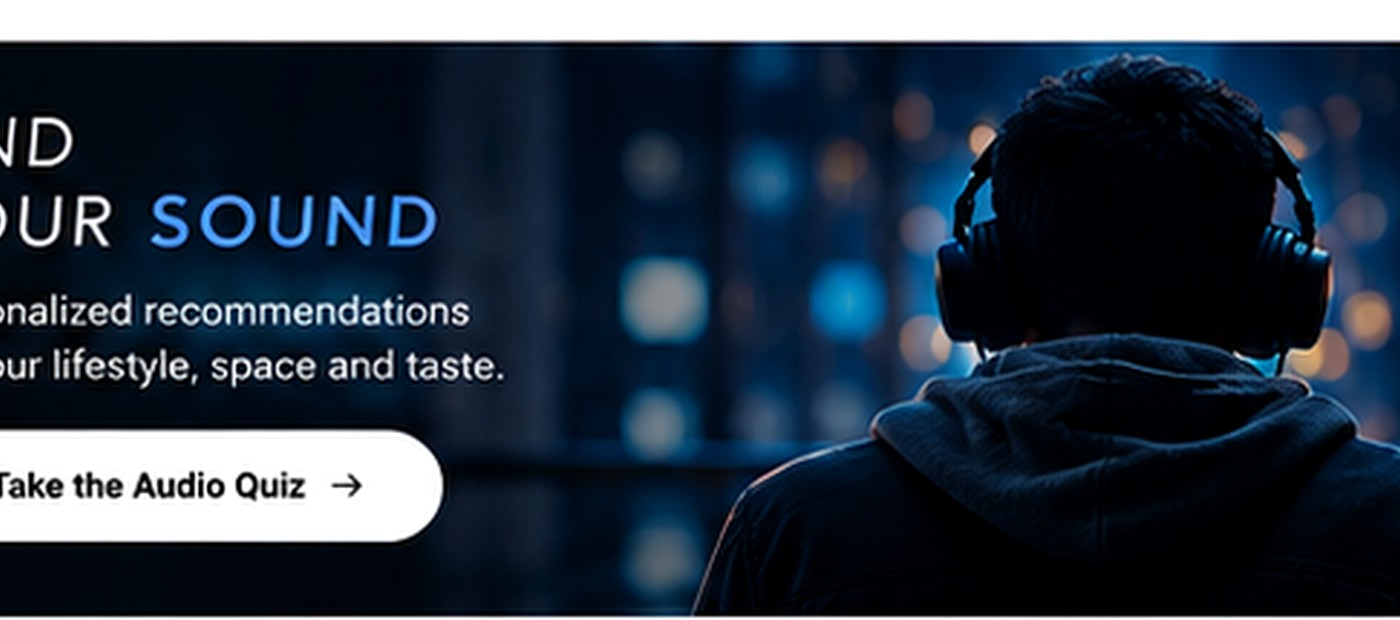
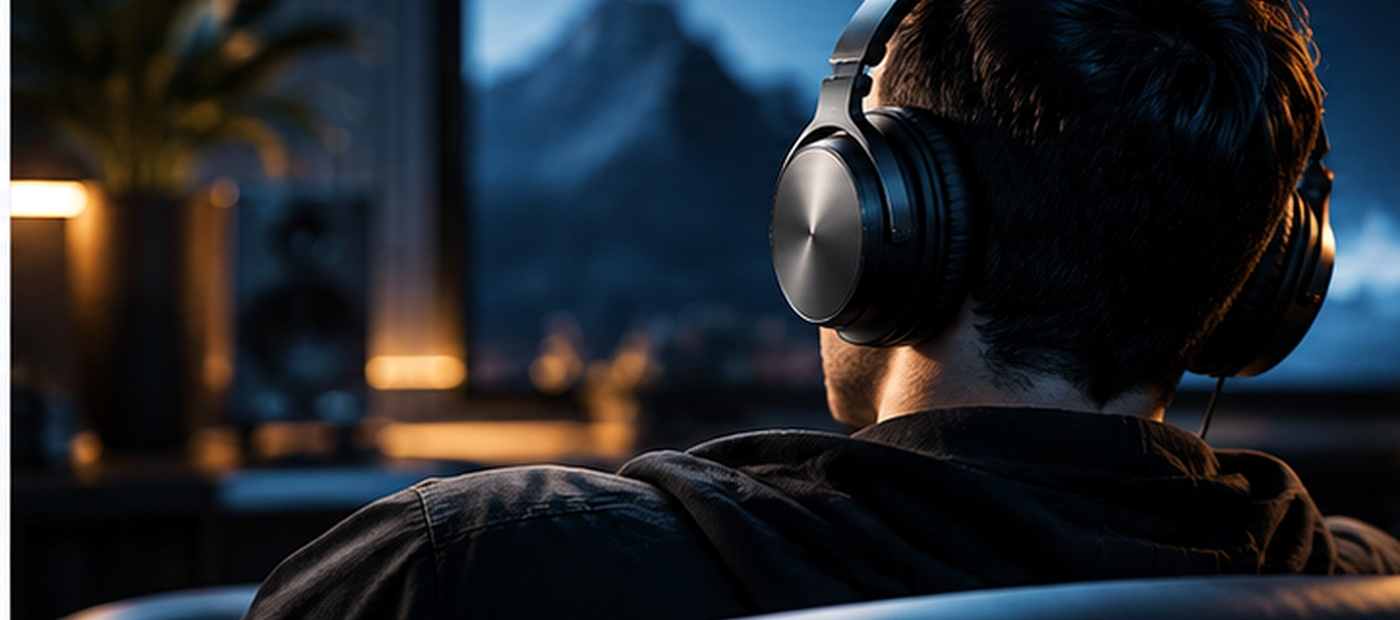
Add files via upload

diff --git a/css/style.css b/css/style.css
@@ -5,7 +5,7 @@
 .nav{background:#080c11;color:white;display:flex;align-items:center;gap:34px;padding:16px 5vw;position:sticky;top:0;z-index:20;border-bottom:1px solid #1b2530}.brand{width:190px}.brand img{width:185px;height:56px;object-fit:contain;display:block}.navlinks{display:flex;gap:22px;align-items:center;flex:1}.navlinks a{color:#d9e1e9;font-size:14px}.navlinks a:hover,.navlinks a.active{color:#58a4ff}.search{display:flex;align-items:center;background:#131b24;border:1px solid #2b3845;border-radius:999px;padding:0 16px;width:285px}.search input{background:none;border:0;outline:0;color:#fff;width:100%;padding:11px 8px}.search input::placeholder{color:#8190a0}.nav-actions{display:flex;gap:12px}.iconbtn{border:1px solid #2b3845;background:#101720;color:#fff;width:42px;height:42px;border-radius:50%;cursor:pointer}.count{font-size:10px;background:var(--blue);padding:2px 5px;border-radius:10px;position:relative;top:-9px;left:17px}
 .hero{min-height:580px;background:#071019 url('../assets/images/banners/hero.jpg') 68% center/cover no-repeat;color:white;display:flex;align-items:center;padding:70px 7vw;position:relative}.hero:after{content:"";position:absolute;inset:0;background:linear-gradient(90deg,rgba(3,7,12,.98) 0%,rgba(3,7,12,.86) 34%,rgba(3,7,12,.34) 67%,rgba(3,7,12,.12) 100%)}.hero-content{position:relative;z-index:1;max-width:610px}.eyebrow{letter-spacing:.24em;text-transform:uppercase;color:#78b5ff;font-size:13px}.hero h1{font-size:clamp(48px,6vw,84px);line-height:.95;margin:16px 0}.hero p{font-size:18px;color:#d9e4ef;max-width:540px}.actions{display:flex;gap:12px;margin:28px 0}.btn{border:1px solid #31506d;background:#fff;color:#071019;padding:13px 20px;border-radius:999px;font-weight:700;cursor:pointer}.btn.primary{background:var(--blue);color:white;border-color:var(--blue)}.btn.ghost{background:transparent;color:white;border-color:#7c8c9d}.benefits{display:flex;gap:25px;margin-top:35px}.benefit{font-size:12px;color:#d6e0ea}.benefit b{display:block;color:white;font-size:14px}
 .container{width:min(1400px,90%);margin:auto}.section{padding:70px 0}.section-head{display:flex;justify-content:space-between;align-items:end;margin-bottom:28px}.section h2{font-size:34px;margin:0}.muted{color:#6c7884}.categories{display:grid;grid-template-columns:repeat(10,1fr);gap:10px;margin-top:0;background:#fff;padding:18px 5vw}.cat{border:1px solid #e1e6eb;border-radius:14px;overflow:hidden;background:#fff;text-align:center;transition:.2s}.cat:hover{transform:translateY(-4px);box-shadow:0 12px 30px rgba(10,30,50,.1)}.cat img{width:100%;aspect-ratio:1.2;object-fit:contain;display:block;background:#fff;padding:8px}.cat span{display:block;padding:12px 6px;font-size:13px;font-weight:700}
-.promo-grid{display:grid;grid-template-columns:repeat(3,1fr);gap:16px}.promo{height:260px;border-radius:18px;overflow:hidden;position:relative;background:#10151c}.promo img{width:100%;height:100%;object-fit:cover}.promo:after{content:"";position:absolute;inset:0;background:linear-gradient(90deg,rgba(0,0,0,.72),rgba(0,0,0,.1))}.promo-copy{position:absolute;z-index:2;left:26px;top:28px;color:#fff;max-width:260px}.promo-copy h3{font-size:28px;line-height:1.05;margin:0 0 10px}.promo-copy p{font-size:14px;color:#e1e8ef}.promo-copy .btn{padding:10px 15px}
+.promo-grid{display:grid;grid-template-columns:repeat(3,1fr);gap:16px}.promo{height:260px;border-radius:18px;overflow:hidden;position:relative;background:#10151c}.promo img{width:100%;height:100%;object-fit:cover}.promo:after{content:"";position:absolute;inset:0;background:linear-gradient(90deg,rgba(0,0,0,.70),rgba(0,0,0,.08))}.promo-copy{position:absolute;z-index:2;left:26px;top:28px;color:#fff;max-width:260px}.promo-copy h3{font-size:28px;line-height:1.05;margin:0 0 10px}.promo-copy p{font-size:14px;color:#e1e8ef}.promo-copy .btn{padding:10px 15px}
 .product-grid{display:grid;grid-template-columns:repeat(4,1fr);gap:18px}.product{background:#fff;border:1px solid #dfe5ea;border-radius:18px;overflow:hidden;position:relative;transition:.2s}.product:hover{transform:translateY(-5px);box-shadow:0 15px 35px rgba(11,25,40,.12)}.product-media{height:310px;background:#fff;position:relative;overflow:hidden}.product-media img{width:100%;height:100%;object-fit:contain;display:block;background:#fff;padding:12px}.badge{position:absolute;left:14px;top:14px;background:var(--blue);color:#fff;padding:5px 9px;border-radius:999px;font-size:11px;font-weight:700}.heart{position:absolute;right:14px;top:14px;width:36px;height:36px;border-radius:50%;border:1px solid #d7dee6;background:#fff;cursor:pointer}.product-info{padding:18px}.product-info small{color:#6f7b86;text-transform:uppercase;letter-spacing:.1em}.product-info h3{margin:7px 0;font-size:18px}.rating{color:#f6a400;font-size:14px}.price{font-size:20px;font-weight:800;margin-top:7px}.product-actions{display:flex;gap:8px;margin-top:14px}.product-actions button{flex:1;border:1px solid #cfd7df;background:white;padding:10px;border-radius:10px;cursor:pointer}.product-actions .add{background:#0b1016;color:white;border-color:#0b1016}
 .dark-section{background:#080c11;color:white}.dark-section .muted{color:#9ca8b4}.finder{display:grid;grid-template-columns:1fr 1fr;gap:35px;align-items:center}.finder img{width:100%;border-radius:20px}.finder-card{padding:20px}.chips{display:flex;flex-wrap:wrap;gap:10px;margin:20px 0}.chip{background:#131b24;border:1px solid #2b3b4b;color:#dbe6f0;padding:10px 14px;border-radius:999px;cursor:pointer}.chip.active{background:var(--blue);border-color:var(--blue)}
 .editorial{display:grid;grid-template-columns:1.1fr .9fr;gap:20px}.editorial img{width:100%;height:360px;object-fit:cover;border-radius:20px}.editorial-card{background:#0b1016;color:white;border-radius:20px;padding:38px;display:flex;flex-direction:column;justify-content:center}

diff --git a/docs/IMAGE-POLICY.md b/docs/IMAGE-POLICY.md
@@ -1,17 +1,23 @@
-# SONARA Image Policy — V5
+# SONARA Image Policy — V6
 
-All primary storefront imagery is locally stored.
+All promotional photography is generated specifically for SONARA Audio and stored locally.
 
-## Product images
-- One product per photo.
-- Complete product visible.
-- Clean studio presentation.
-- No prices, names, stars, badges, buttons, hearts or website UI inside the photo.
+The three homepage promo photographs:
+- `find-your-sound.jpg`
+- `home-audio.jpg`
+- `turntables.jpg`
 
-## Hero
-- Cinematic generated photography.
-- The website's headline, CTA and benefits are HTML/CSS, not baked into the hero photograph.
+contain photography only.
 
-## Logo
-- Clean transparent local wordmark/monogram.
-- No screenshot or website UI.
+They do NOT contain:
+- headlines
+- product names
+- prices
+- buttons
+- badges
+- ratings
+- logos
+- website UI
+- duplicated website cards
+
+All promotional copy and buttons are HTML/CSS layered outside the photographs.
